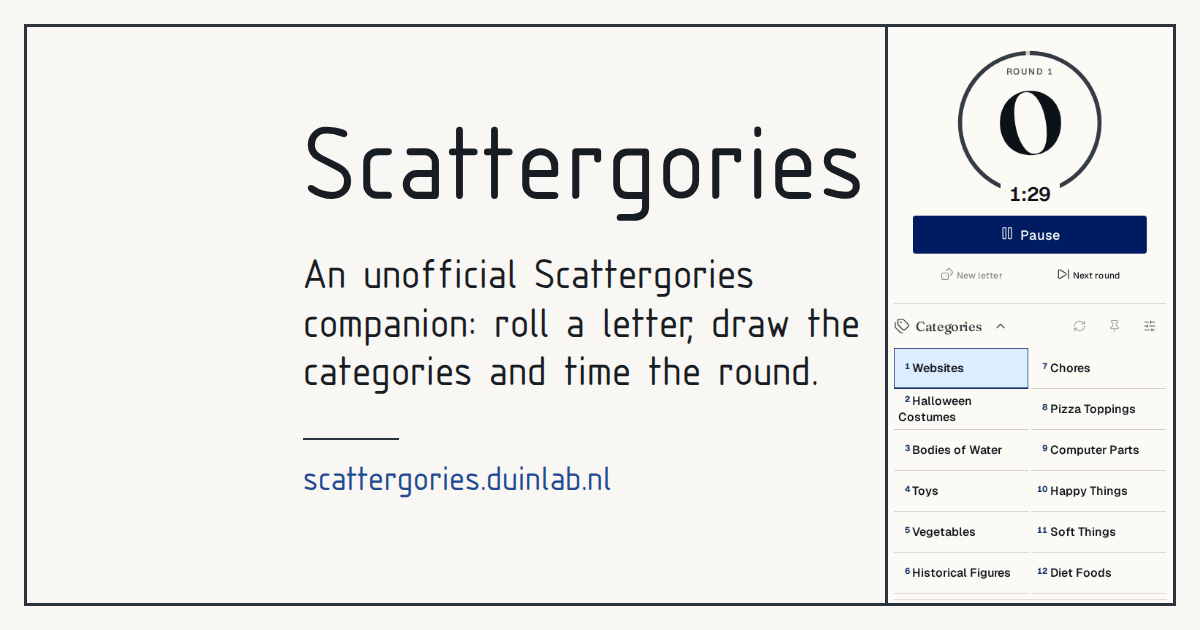
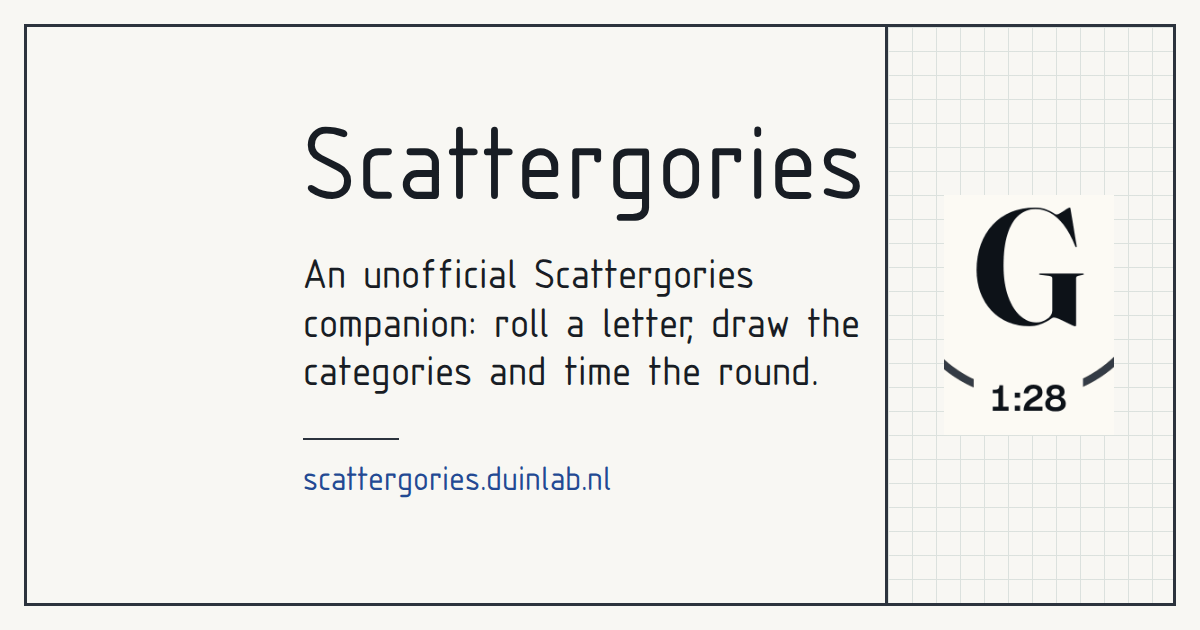
fix(social-card): show the round's letter and timer on the card
The card's right-hand panel held a whole phone screen, so its text was about 4 px at link-preview size.
- replace it with the letter dial and its 1:28 timer, without the category list, captured at 3x and cropped tight
- fit the crop with --fit contain so nothing is cut
- update the README command and the og:image:alt text
- keep phone-light.png, which the README still shows

Changed region(s): [[0.74, 0.0603, 0.9558, 0.9651], [0.925, 0.5127, 0.9558, 0.5429]]

diff --git a/index.html b/index.html
@@ -23,7 +23,7 @@
     <meta property="og:image" content="https://scattergories.duinlab.nl/og.png" />
     <meta property="og:image:width" content="1200" />
     <meta property="og:image:height" content="630" />
-    <meta property="og:image:alt" content="Scattergories: an unofficial companion that rolls a letter, draws the categories and times the round, at scattergories.duinlab.nl, beside the round timer and category list." />
+    <meta property="og:image:alt" content="Scattergories: an unofficial companion that rolls a letter, draws the categories and times the round, at scattergories.duinlab.nl, beside a round's big letter and its 1:28 timer." />
     <meta name="twitter:card" content="summary_large_image" />
     <title>Scattergories</title>
   </head>

diff --git a/README.md b/README.md
@@ -46,12 +46,12 @@ Open **How to play** to find links to both pages. Their source is in
 
 `public/og.png` is the 1200x630 card shown when the link is shared. It is made with the generator in
 [my site repo](https://github.com/simonvanlierde/simonvanlierde.github.io/tree/main/scripts/social-card)
-(needs Docker). From a checkout of that repo, with this repo next to it:
+(needs Docker). The visual is the round's letter and timer, captured at 3x and cropped tight. From a checkout of that repo, with this repo next to it:
 
 ```sh
-pnpm gen:card --visual ../scattergories/docs/screenshots/phone-light.png --name "Scattergories" \
+pnpm gen:card --visual ../scattergories/docs/screenshots/og-dial.png --name "Scattergories" \
   --line "An unofficial Scattergories companion: roll a letter, draw the categories and time the round." \
-  --domain scattergories.duinlab.nl --out ../scattergories/public/og.png
+  --domain scattergories.duinlab.nl --out ../scattergories/public/og.png --fit contain
 ```
 
 ## Links
